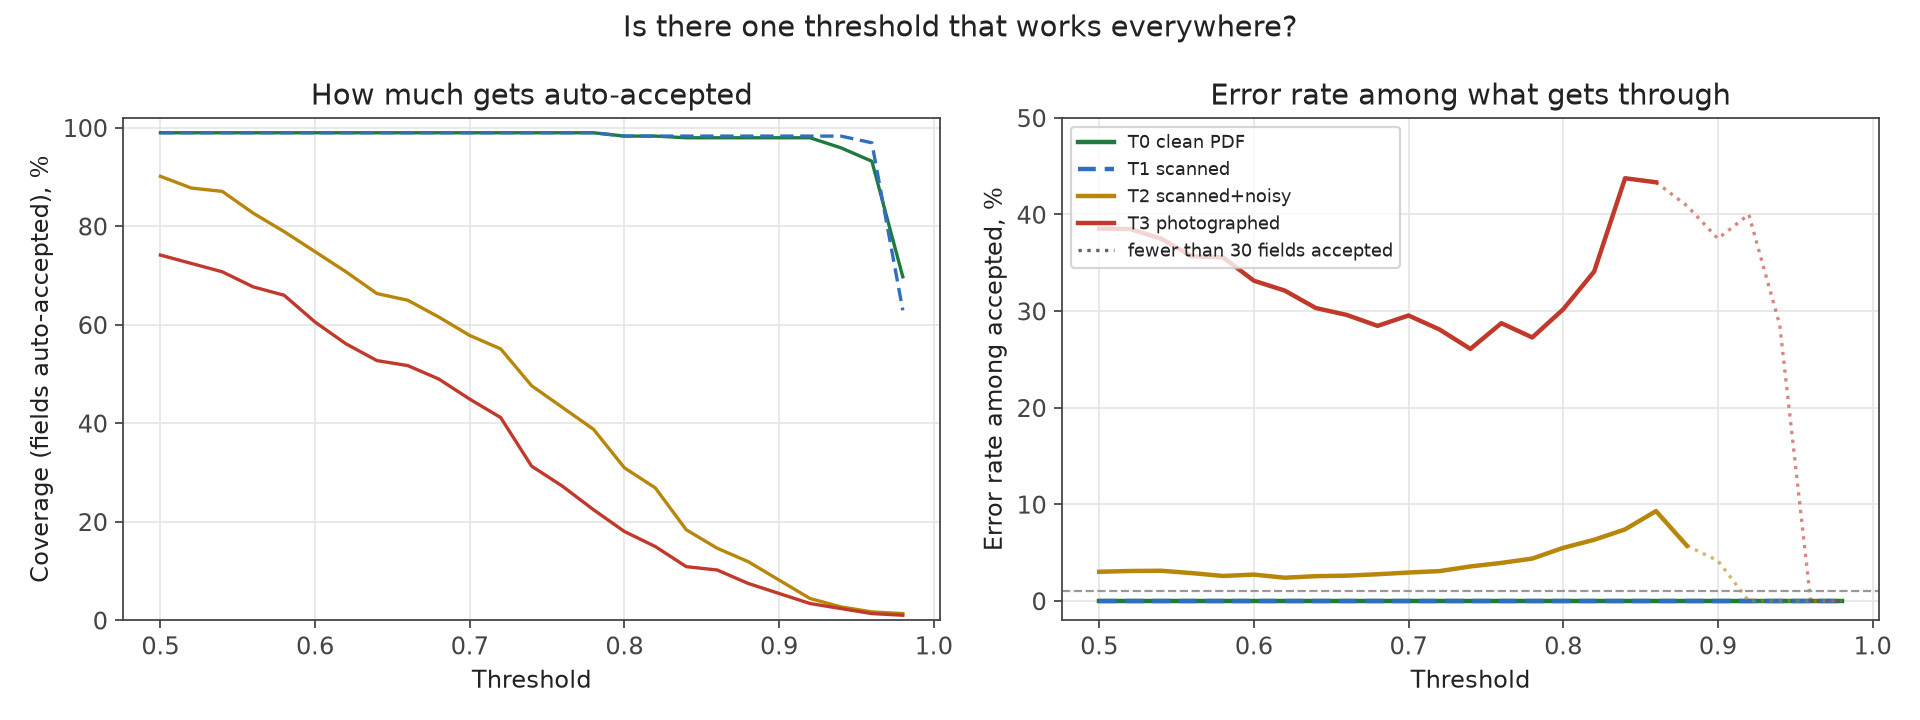
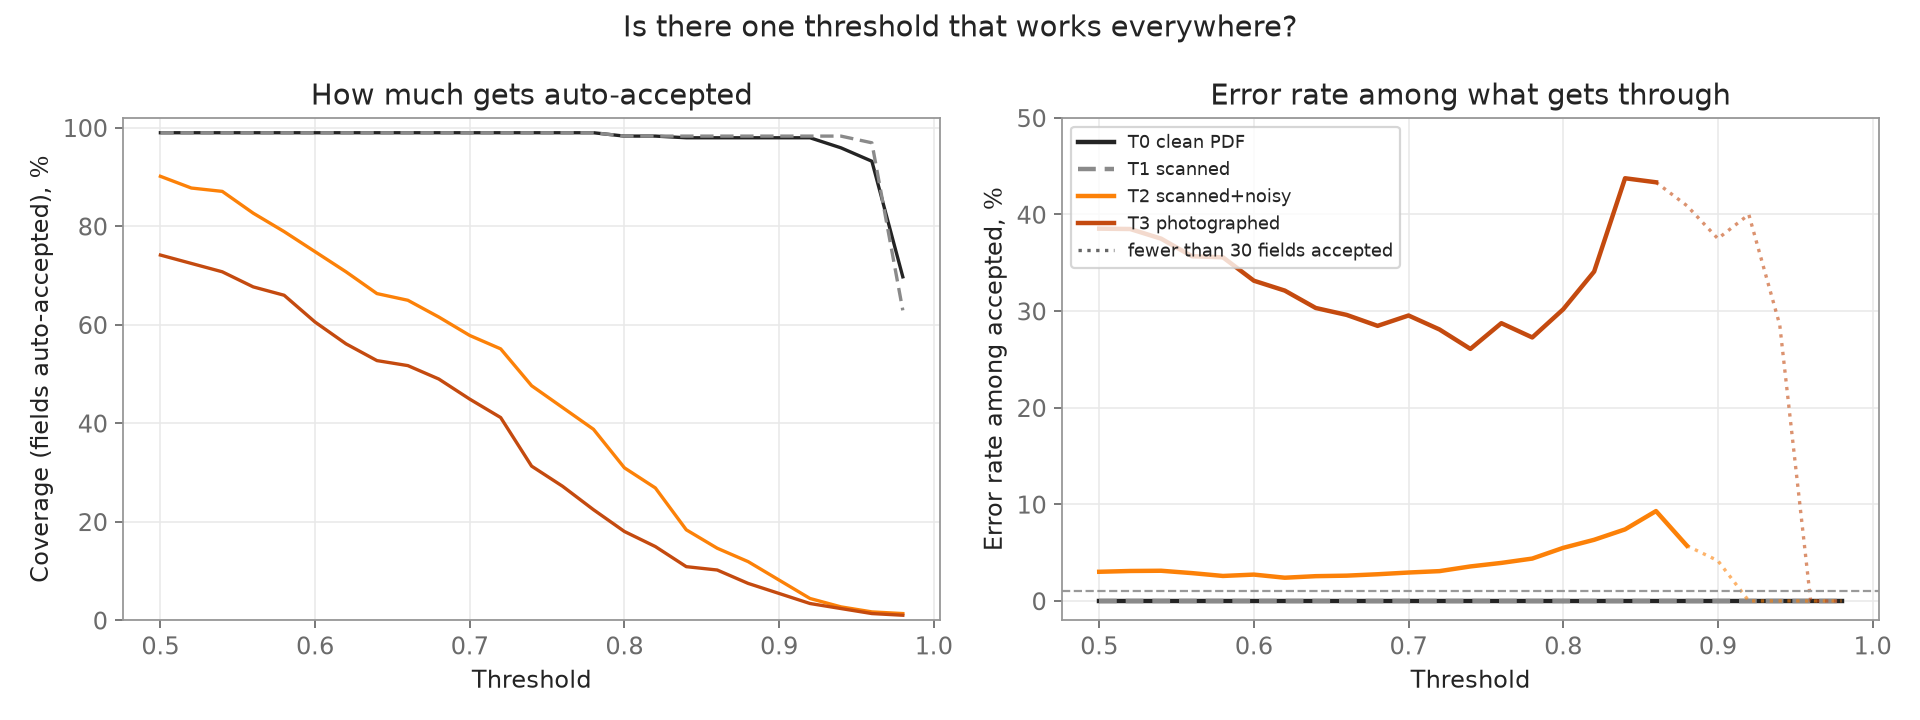
Recolor every figure to unsiloed.ai's actual brand palette
Sampled hex colors directly from unsiloed.ai and its kyc-app demo rather than
picking freehand. Two findings drove the palette: the homepage's real accent
colors are hot pink #F861A8 (~90 uses in the hero graphic) and orange #FC8108,
with #242424 charcoal for text -- no blue, no green anywhere. And the site has
no true red on it at all (checked across the homepage and blog); its most
saturated tone is a rust, #C44A0F, sitting at the dark end of its own orange
rather than being a separate hue.

Tier colors are now an intensity ramp within that constraint (charcoal -> grey
-> brand orange -> that rust) instead of a borrowed stoplight red/amber/green
that doesn't exist in Unsiloed's identity. Non-tier charts (score comparison,
threshold pair) use the brand pink directly. Axis/grid/text colors pulled from
the same pages rather than generic matplotlib greys.

diff --git a/confidence-calibration/calibration/analyse.py b/confidence-calibration/calibration/analyse.py
@@ -35,7 +35,12 @@ DOCS_DIR = ROOT / "documents"
 CORD_DIR = DOCS_DIR / "cord"
 
 TIER_LABELS = {"t0": "T0 clean PDF", "t1": "T1 scanned", "t2": "T2 scanned+noisy", "t3": "T3 photographed"}
-TIER_COLOR = {"t0": "#1f7a3d", "t1": "#2f6fbd", "t2": "#b8860b", "t3": "#c0392b"}
+# Sampled from unsiloed.ai and its own kyc-app demo rather than picked freehand. The site has
+# no true red anywhere on it (checked): its most alarming tone is a rust that sits at the dark
+# end of its own orange, #FC8108. So degradation is drawn as an intensity ramp within their
+# actual palette (charcoal -> grey -> brand orange -> that rust) instead of a borrowed
+# stoplight red/amber/green that doesn't exist in their identity.
+TIER_COLOR = {"t0": "#242424", "t1": "#8a8a8a", "t2": "#FC8108", "t3": "#C44A0F"}
 # T0 and T1 land on almost identical curves. Without distinct dash patterns one is drawn
 # entirely underneath the other and the figure silently shows three lines for four tiers.
 TIER_STYLE = {"t0": "-", "t1": (0, (4, 2)), "t2": "-", "t3": "-"}
@@ -43,8 +48,9 @@ TIER_STYLE = {"t0": "-", "t1": (0, (4, 2)), "t2": "-", "t3": "-"}
 # Reserved palettes. TIER_COLOR means document quality and nothing else, so figures whose
 # subject is not a tier (the three scores, the two thresholds) use these instead. Reusing the
 # tier colours there made green/blue/gold read as T0/T1/T2 on charts that have no tier axis.
-SCORE_COLOR = "#4c5c96"
-THRESHOLD_COLOR = {0.85: "#7d3c98", 0.97: "#c9a0dc"}
+# #F861A8 is unsiloed.ai's own primary brand accent (their homepage hero, ~90 uses).
+SCORE_COLOR = "#F861A8"
+THRESHOLD_COLOR = {0.85: "#F861A8", 0.97: "#F8A9C8"}
 
 # Below this many observations a rate is noise, not a measurement. At threshold 0.96 the
 # T3 accepted set is 4 fields; plotting its 0% error the same weight as an n=291 point is
@@ -70,14 +76,16 @@ plt.rcParams.update(
     {
         "figure.facecolor": "white",
         "axes.facecolor": "white",
-        "axes.edgecolor": "#444444",
-        "axes.labelcolor": "#222222",
-        "text.color": "#222222",
-        "xtick.color": "#444444",
-        "ytick.color": "#444444",
+        # #242424 is unsiloed.ai's own text colour; #969696 and #E9E9E9 are real neutrals
+        # from the same page rather than generic matplotlib greys.
+        "axes.edgecolor": "#969696",
+        "axes.labelcolor": "#242424",
+        "text.color": "#242424",
+        "xtick.color": "#6b6b6b",
+        "ytick.color": "#6b6b6b",
         "font.size": 11,
         "axes.grid": True,
-        "grid.color": "#e4e4e4",
+        "grid.color": "#E9E9E9",
         "grid.linewidth": 0.7,
     }
 )
@@ -259,8 +267,10 @@ def plot_reliability_diagram(frame: pd.DataFrame, column: str, path: Path, title
 
     x = np.arange(len(tiers))
     width = 0.36
-    ax_plain.bar(x - width / 2, claimed, width, color="#7f8c8d", label="How sure the score said it was")
-    ax_plain.bar(x + width / 2, actual, width, color="#2f6fbd", label="How often it was actually right")
+    # Neutral grey for the claim, brand pink for the measured outcome: pink is the thing this
+    # whole recipe is actually checking, so it gets the colour that draws the eye.
+    ax_plain.bar(x - width / 2, claimed, width, color="#969696", label="How sure the score said it was")
+    ax_plain.bar(x + width / 2, actual, width, color=SCORE_COLOR, label="How often it was actually right")
 
     for xi, (c, a) in enumerate(zip(claimed, actual, strict=True)):
         ax_plain.text(xi - width / 2, c + 1.5, f"{c:.0f}%", ha="center", fontsize=9)
@@ -273,14 +283,16 @@ def plot_reliability_diagram(frame: pd.DataFrame, column: str, path: Path, title
         if c - a > 2:
             ax_plain.annotate(
                 "over-promises\n(dangerous)", xy=(xi, max(c, a)), xytext=(xi, max(c, a) + 14),
-                ha="center", fontsize=8, color="#c0392b", fontweight="bold",
-                arrowprops={"arrowstyle": "->", "color": "#c0392b", "linewidth": 1.2},
+                ha="center", fontsize=8, color=TIER_COLOR["t3"], fontweight="bold",
+                arrowprops={"arrowstyle": "->", "color": TIER_COLOR["t3"], "linewidth": 1.2},
             )
         elif a - c > 2:
             ax_plain.annotate(
                 "under-promises\n(safe, just costly)", xy=(xi, max(c, a)), xytext=(xi, max(c, a) + 14),
-                ha="center", fontsize=8, color="#1f7a3d", fontweight="bold",
-                arrowprops={"arrowstyle": "->", "color": "#1f7a3d", "linewidth": 1.2},
+                # Grey, not green: the brand has no green, and "safe" here just means "no alarm needed",
+                # which the neutral T0 tone says better than an implied stoplight would.
+                ha="center", fontsize=8, color=TIER_COLOR["t0"], fontweight="bold",
+                arrowprops={"arrowstyle": "->", "color": TIER_COLOR["t0"], "linewidth": 1.2},
             )
 
     ax_plain.set_xticks(x, [TIER_LABELS[t] for t in tiers], fontsize=8.5, rotation=12)
@@ -335,8 +347,12 @@ def plot_reliability_diagram(frame: pd.DataFrame, column: str, path: Path, title
                         fontsize=7, color=TIER_COLOR[tier], ha=label_align,
                         xytext=label_offset, textcoords="offset points")
 
-    ax.set_xlim(-0.02, 1.02)
-    ax.set_ylim(-0.02, 1.08)
+    # x stays near [0, 1]: this axis is a score, and padding it out reads as if scores could
+    # exceed 1. The labels already point left (toward lower x), so only y needs headroom: the
+    # T1 label sits above a point at y~0.99 and was landing close enough to the top frame to
+    # look clipped.
+    ax.set_xlim(-0.02, 1.04)
+    ax.set_ylim(-0.02, 1.18)
     ax.set_xlabel("Score it gave (averaged within each band)")
     ax.set_ylabel("How often those were right")
     ax.set_title("Same data, in detail (on the dashed line = honest)")
@@ -541,7 +557,7 @@ def plot_fixed_thresholds(table: pd.DataFrame, path: Path) -> None:
             ax_cov.text(bar.get_x() + bar.get_width() / 2, value + 1.5,
                         f"{value:.0f}%", ha="center", va="bottom", fontsize=7.5)
 
-    ax_err.axhline(1.0, color="#c0392b", linestyle="--", linewidth=1.2, label="1% error target")
+    ax_err.axhline(1.0, color=TIER_COLOR["t3"], linestyle="--", linewidth=1.2, label="1% error target")
     # The whisker reaching to 49% on the 4-field bars is the point of this chart. A reader
     # sharing just the PNG, with no surrounding prose, needs the legend to say what it is.
     ax_err.errorbar([], [], yerr=1, fmt="none", ecolor="#555555", capsize=3,

diff --git a/confidence-calibration/scripts/build_notebook.py b/confidence-calibration/scripts/build_notebook.py
@@ -297,7 +297,7 @@ Image.open(RESULTS / "figures" / "02_reliability_grounding.png")
 md(
     """
 The left panel is the whole finding in one picture. Grey is how sure the score said it was;
-blue is how often it was actually right. On the first three tiers blue is at least as tall as
+pink is how often it was actually right. On the first three tiers pink is at least as tall as
 grey, which is fine — the score is either honest or too modest. On T3 grey is taller. It
 claimed 60% and delivered 52%.
 
